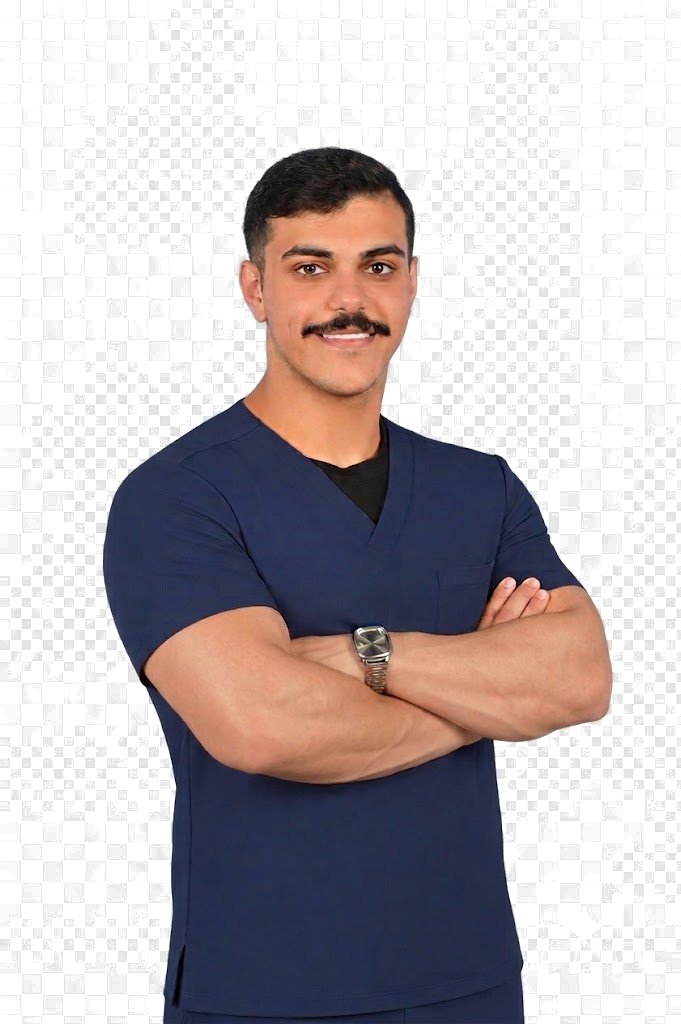
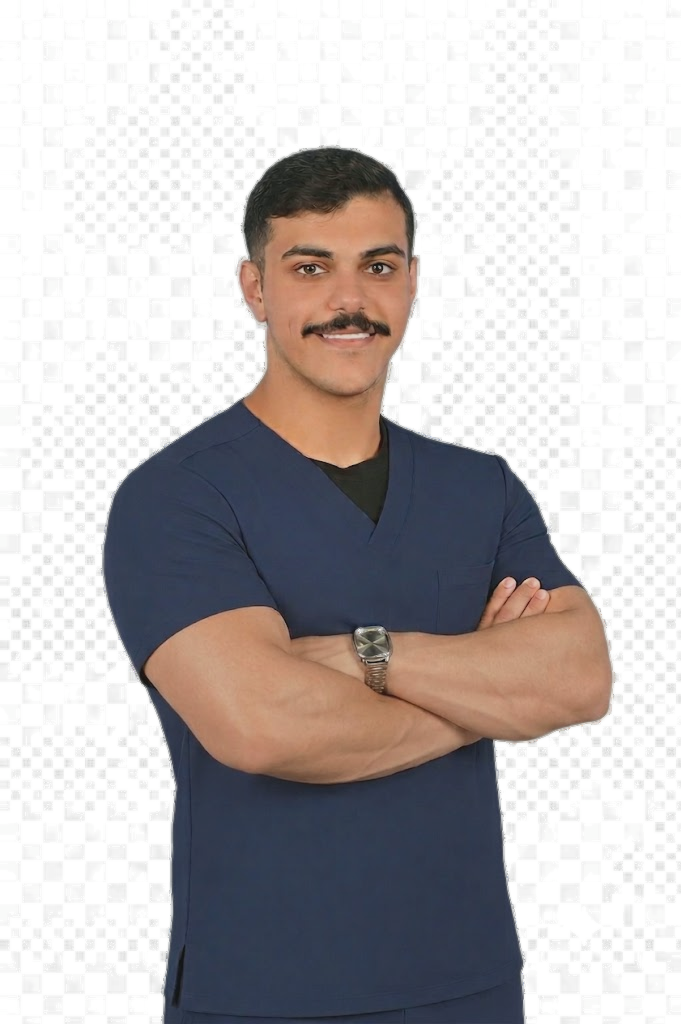
تحسين دمج صورة البروفايل مع خلفية الغابة

diff --git a/css/style.css b/css/style.css
@@ -231,9 +231,15 @@ ul { list-style: none; }
   position: relative;
   z-index: 1;
   display: grid;
-  grid-template-columns: 1.15fr .85fr;
+  grid-template-columns: 1fr 1fr;
   gap: 56px;
-  align-items: center;
+  /* end بدل center: يثبّت الصورة بأسفل القسم (واقفة على "أرضية") بدل ما تطفو
+     بمنتصف الخلفية؛ النص يرجع لمنتصفه الطبيعي عبر align-self بالأسفل */
+  align-items: end;
+}
+
+.hero-text {
+  align-self: center;
 }
 
 .hero-text h1 {
@@ -264,19 +270,49 @@ ul { list-style: none; }
   aspect-ratio: 4 / 5;
 }
 
+/* ظل تماس ناعم تحت القدمين مباشرة — يعطي إحساس ثقل وإنه واقف على أرضية حقيقية */
+.hero-media::before {
+  content: "";
+  position: absolute;
+  bottom: 6%;
+  left: 12%;
+  right: 12%;
+  height: 12%;
+  background: radial-gradient(ellipse at center, rgba(0, 0, 0, 0.55) 0%, rgba(0, 0, 0, 0) 72%);
+  filter: blur(4px);
+  z-index: 0;
+}
+
+/* ضباب خفيف جداً عند أسفل الصورة، يساعد الصورة تندمج بأرضية الغابة */
+.hero-media::after {
+  content: "";
+  position: absolute;
+  bottom: 0;
+  left: 0;
+  right: 0;
+  height: 26%;
+  background: linear-gradient(to top, rgba(235, 240, 225, 0.28), rgba(235, 240, 225, 0));
+  pointer-events: none;
+  z-index: 2;
+}
+
 /*
-  صورة profile.png نفسها بخلفية شفافة حقيقية (Alpha)، فتندمج مباشرة مع
-  صورة الغابة خلفها بدون أي صندوق أو حواف — ما تحتاج تأثير تدرّج (mask) لأن
-  الشفافية موجودة بالصورة نفسها. أضفنا drop-shadow خفيف تحت الشخص عشان
-  يبين له عمق وما يبين "طافي" فوق الخلفية.
+  صورة profile.png نفسها بخلفية شفافة حقيقية (Alpha) مع حواف متلاشية
+  (Feathered) وتدرّج لوني دافئ مطبّق مسبقاً على الصورة نفسها، فتندمج مباشرة
+  مع صورة الغابة خلفها بدون أي صندوق أو حواف حادة. الصورة مثبّتة بأسفل
+  الصندوق (object-position: bottom) عشان تبان واقفة على أرضية، مو عائمة
+  بالمنتصف. أضفنا drop-shadow خفيف تحتها عشان تبين لها عمق طبيعي.
   إذا رجعت تستخدم صورة بخلفية عادية (مو شفافة)، رجّع object-fit: cover
   وأضف تأثير mask-image زي القديم عشان تتلاشى حوافها.
 */
 .hero-media img {
+  position: relative;
+  z-index: 1;
   width: 100%;
   height: 100%;
   object-fit: contain;
-  filter: drop-shadow(0 18px 26px rgba(0, 0, 0, 0.45));
+  object-position: bottom;
+  filter: drop-shadow(0 14px 20px rgba(0, 0, 0, 0.4));
 }
 
 /* ============================== فاصل زخرفي بين الأقسام ============================== */
